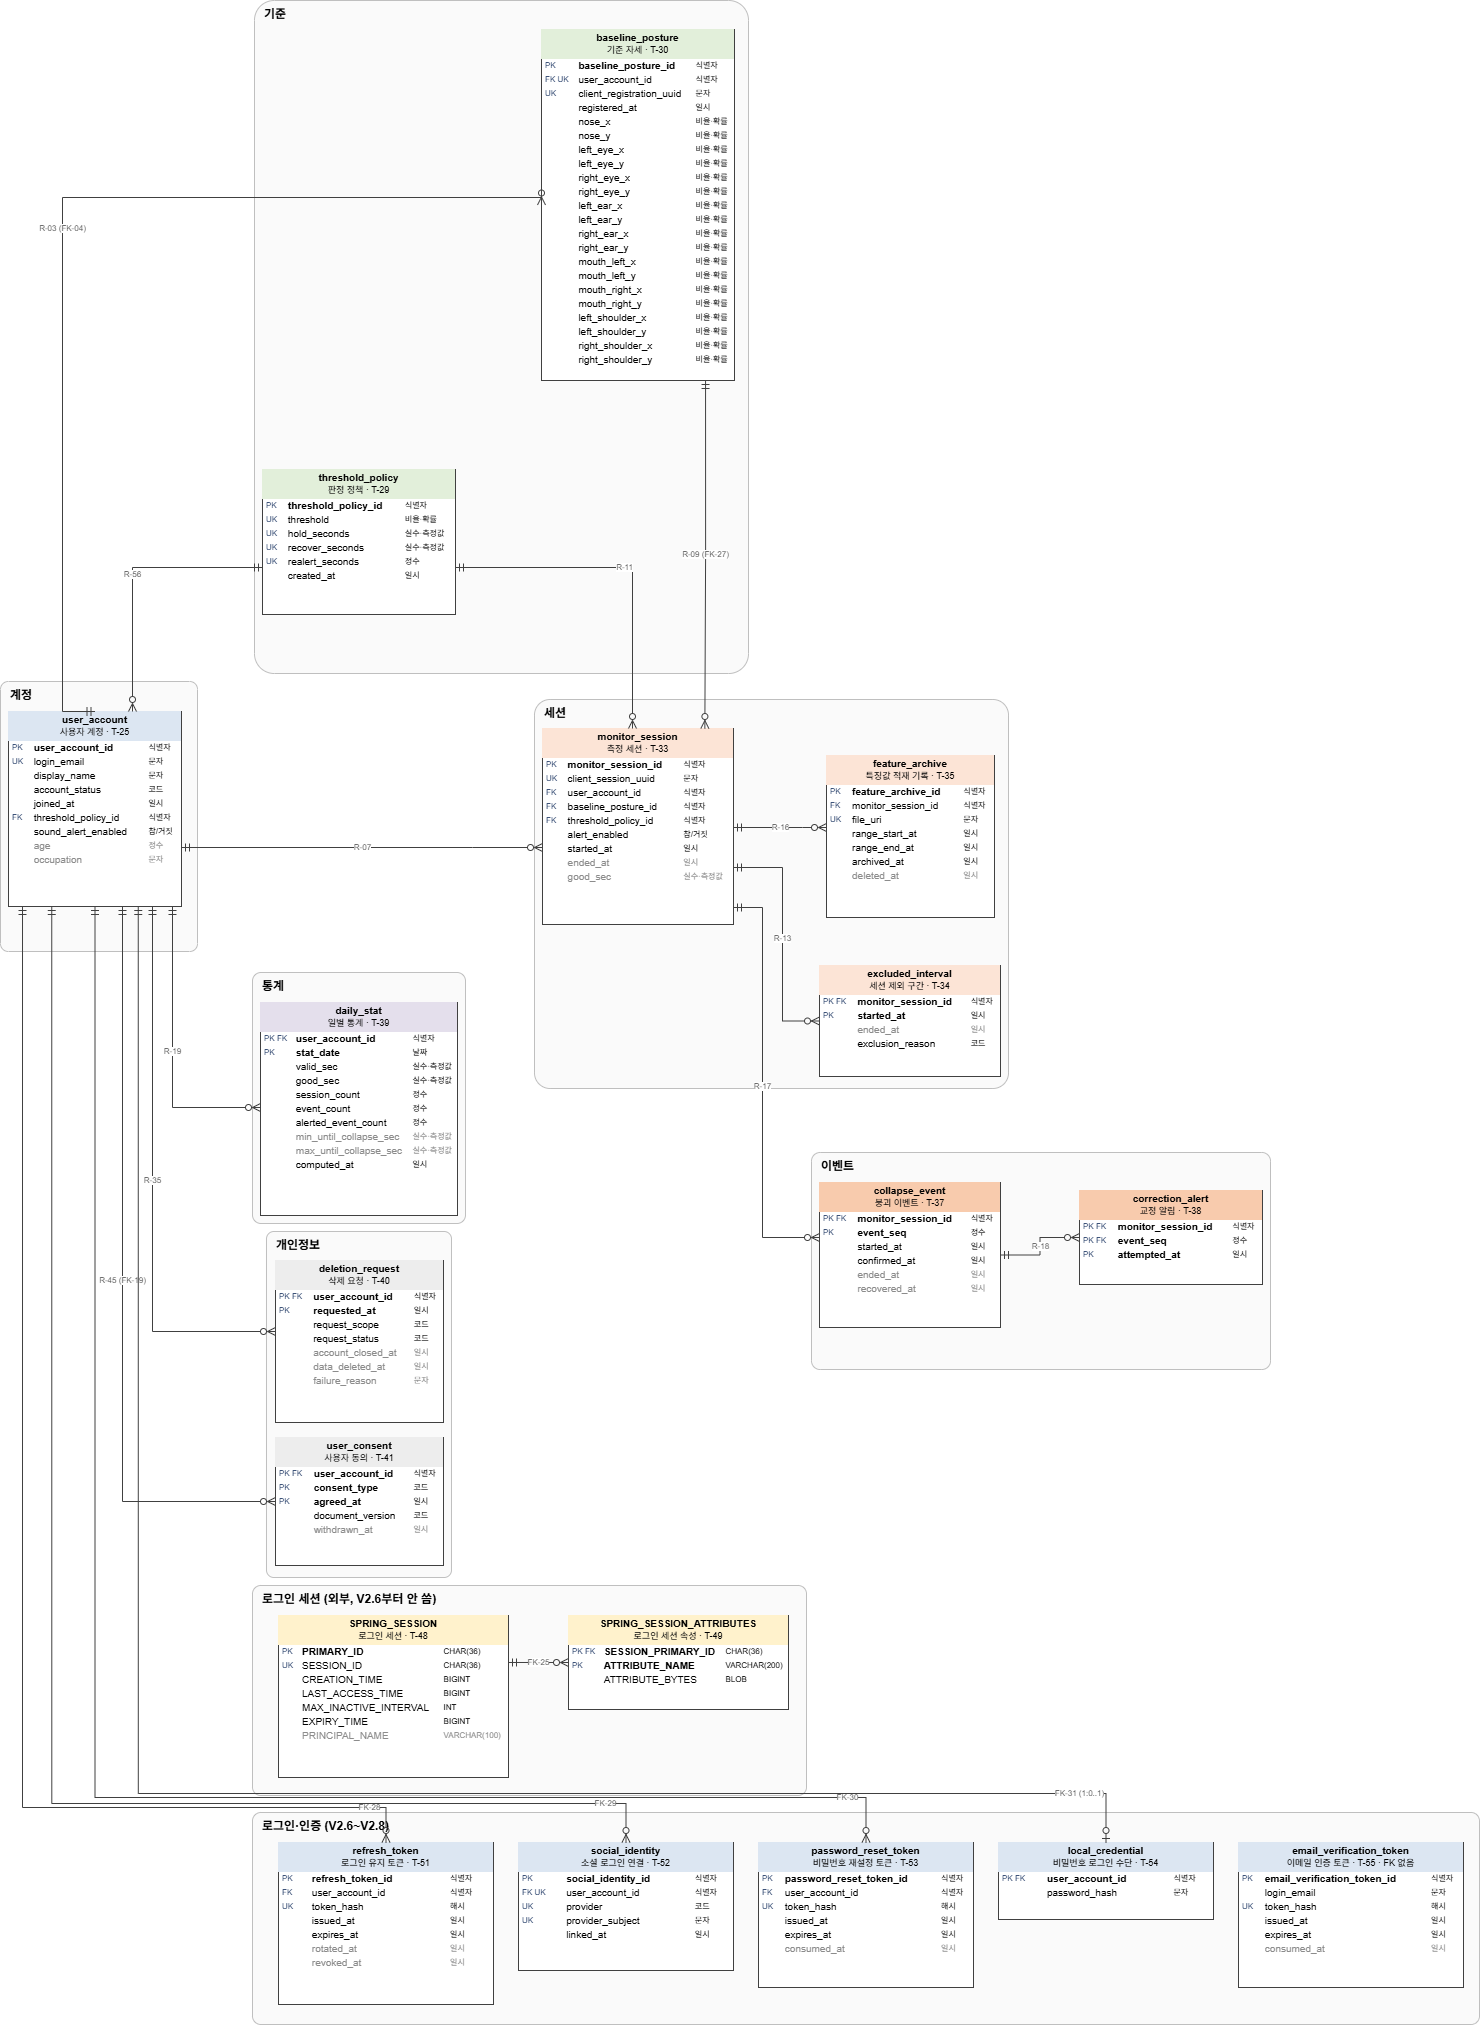
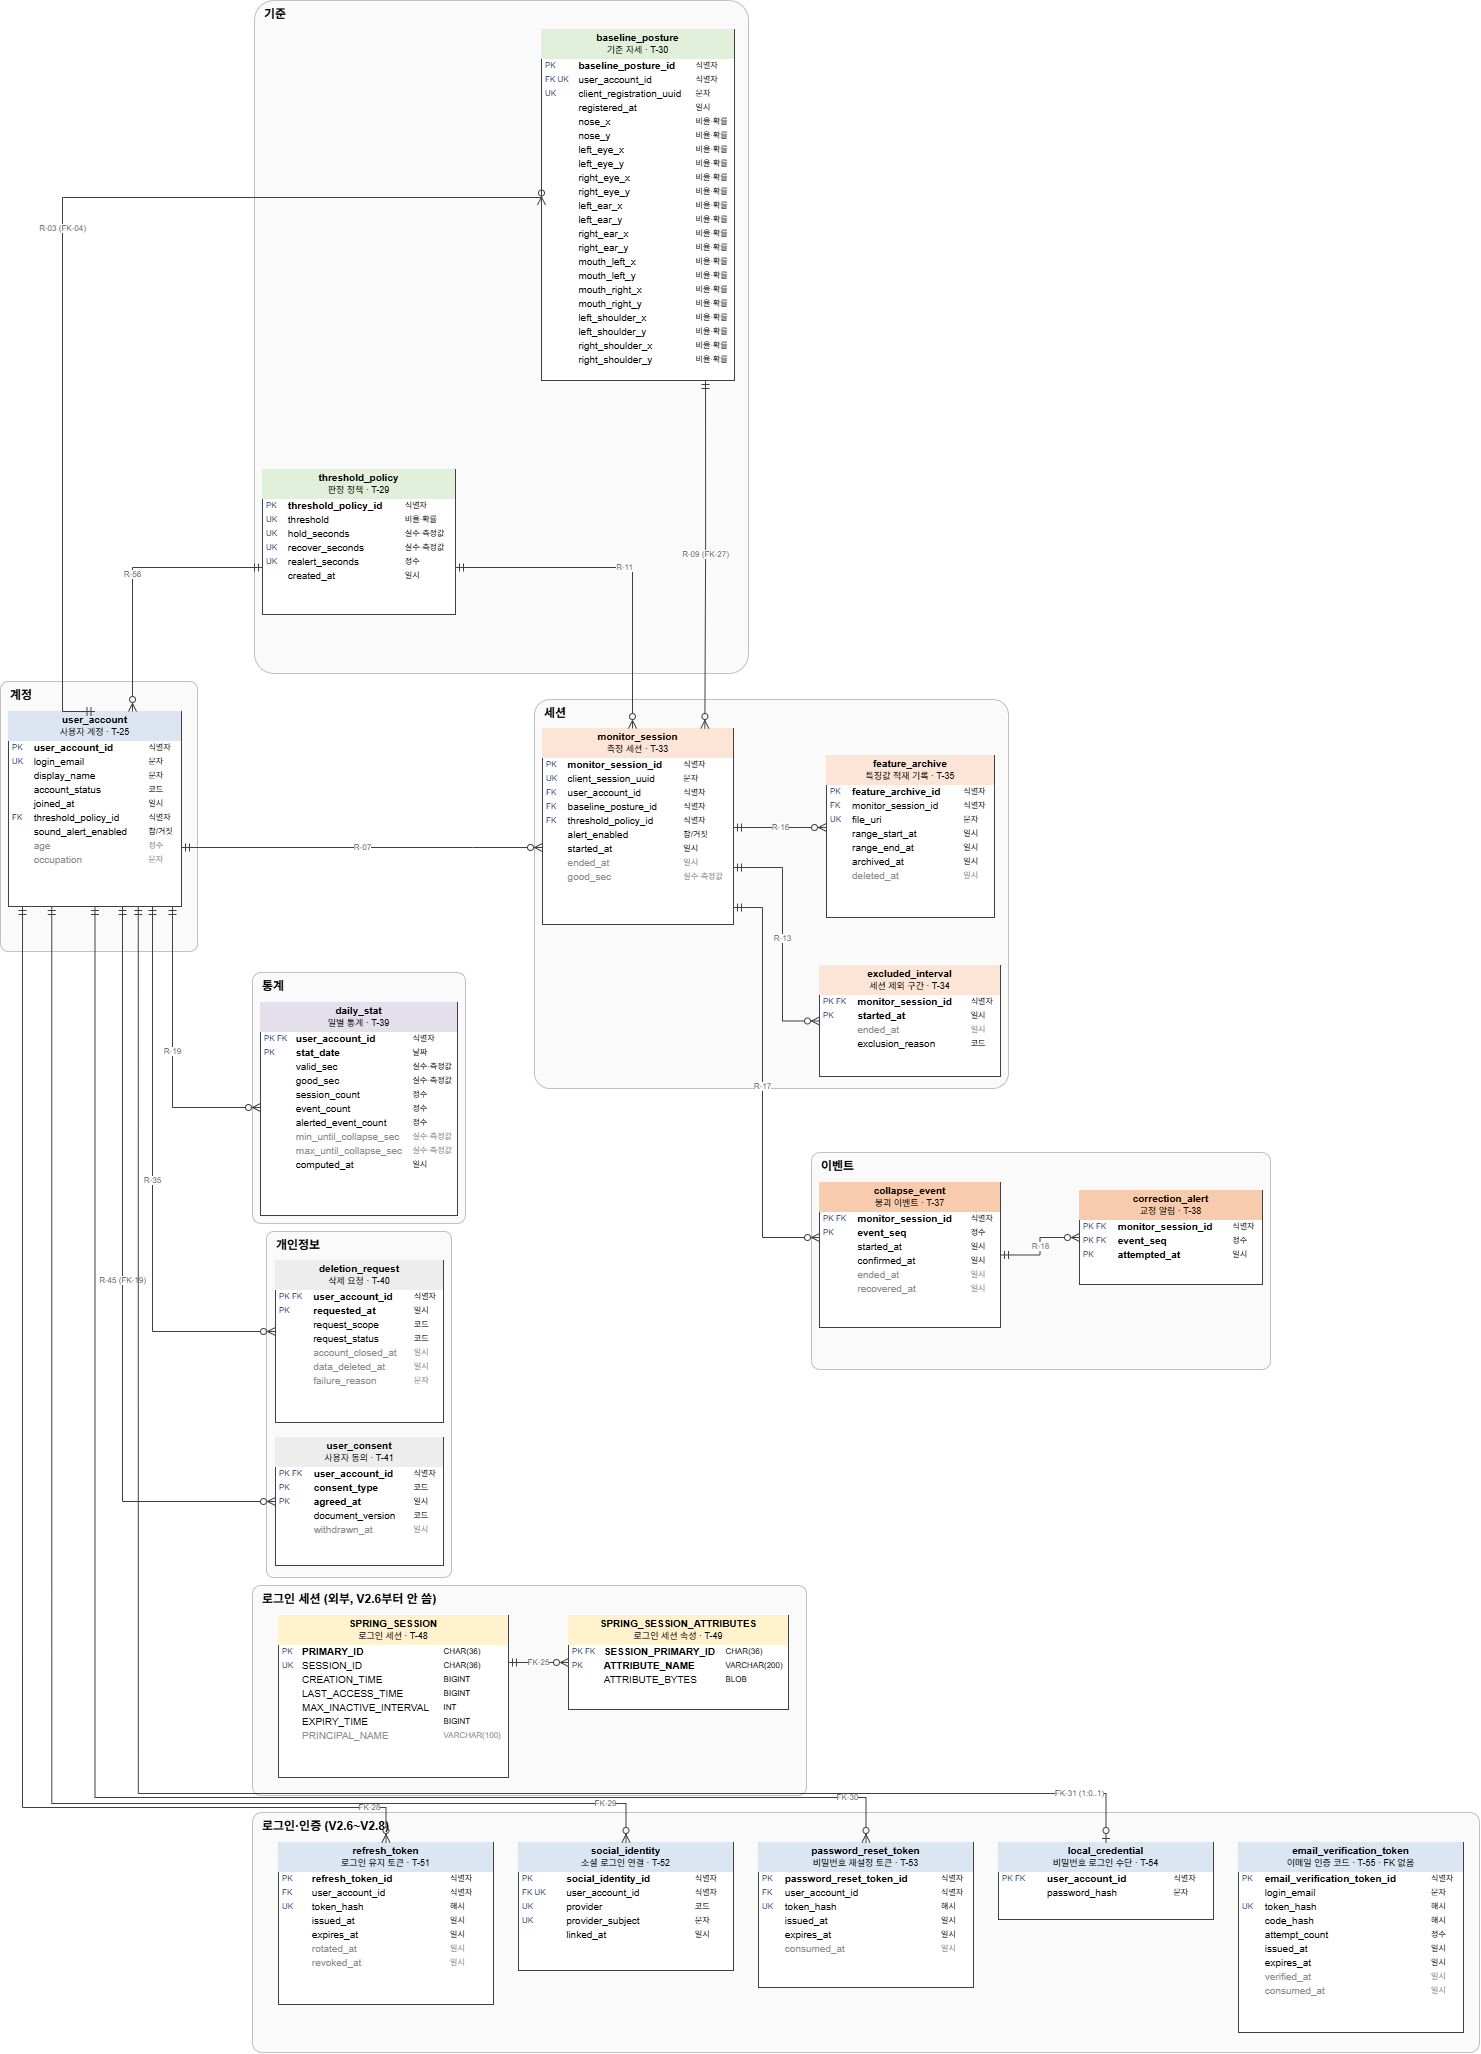
docs(repo): ERD V2.8 개념·논리 PNG를 코드 방식 019로 다시 내보냄
- email_verification_token을 019 수정(11/23)에 맞춤: 칼럼 9개
  (code_hash·attempt_count·verified_at 추가)
- 11/23에는 원본 .drawio만 고치고 PNG는 11/17 링크 방식 그대로였음
- 계획 0096: ERD PNG 항목 체크, 남은 것은 실제 메일 도착 확인

diff --git a/docs/plans/active/0096-account-email-link-and-verification.md b/docs/plans/active/0096-account-email-link-and-verification.md
@@ -1,6 +1,6 @@
 # 같은 이메일 계정 연결과 가입 이메일 인증
 
-- 상태: in_progress (DB 단계 저장소 반영 2026-11-17 — migration 018·019, `schema_V2_8.sql`. 운영 적용 전. BE 1단계 구현 2026-11-17(브랜치 `feature/backend-local-credential`), 2026-11-19 `refactor/repo-remove-api-version-paths` 기준 브랜치 `feature/backend-local-credential-on-remove-paths`로 옮김(develop 반영 전). BE 2단계 시작 2026-11-23(브랜치 `feature/repo-email-verification-code-db` — 019 코드 방식, 인증 대기 DB). PR #144(BE 1·2단계 한 PR) 리뷰 반영 2026-11-23, **develop 병합 2026-11-24**(`1f643937`). 운영 DB 018·019 적용 2026-11-24. ADR 0050 고침 2026-11-24. 남은 것: ERD PNG 2장(유진 직접), 실제 메일 도착 확인(진행 중))
+- 상태: in_progress (DB 단계 저장소 반영 2026-11-17 — migration 018·019, `schema_V2_8.sql`. 운영 적용 전. BE 1단계 구현 2026-11-17(브랜치 `feature/backend-local-credential`), 2026-11-19 `refactor/repo-remove-api-version-paths` 기준 브랜치 `feature/backend-local-credential-on-remove-paths`로 옮김(develop 반영 전). BE 2단계 시작 2026-11-23(브랜치 `feature/repo-email-verification-code-db` — 019 코드 방식, 인증 대기 DB). PR #144(BE 1·2단계 한 PR) 리뷰 반영 2026-11-23, **develop 병합 2026-11-24**(`1f643937`). 운영 DB 018·019 적용 2026-11-24. ADR 0050 고침 2026-11-24. ERD PNG 2장 다시 내보냄 2026-11-24. 남은 것: 실제 메일 도착 확인(진행 중))
 - 담당: DB 유진(V2.8 — migration 018·019), BE·FE 미정, DevOps 홍규(환경변수·적용 순서)
 - 시작일: 2026-11-17
 - 관련: [계획 0088](0088-discord-login-and-password-reset.md), [Discord·재설정 인계](../../design/social-login-password-reset-handoff.md), [이메일 인계](../../design/email-account-handoff.md), [계정 계약](../../../contracts/accounts.md), [DB 안내](../../../database/README.md), [ADR 0050](../../decisions/0050-account-email-and-discord-link.md)(같은 이메일 승인 연결·Discord 전용 계정에 비밀번호 붙이지 않음·인증 대기 DB, 2026-11-24 고침)
@@ -131,7 +131,7 @@ ALTER TABLE user_account DROP COLUMN password_hash;
   - [x] 2026-11-23 6자리 코드 유지로 정하고 019를 운영 적용 전에 고침(020 대신, `code_hash`·`attempt_count`·`verified_at`). `schema_V2_8.sql`·ERD 원본·`integrity_check.py`·DB 안내
   - [x] 2026-11-23 `EmailVerificationRepository`·`EmailVerificationService`(조건부 UPDATE, 서비스 잠금 삭제, 가입 소비와 계정 생성 한 트랜잭션, 매일 04:45 정리), `SchemaVerifier`, 단위·MySQL 통합 시험, 계약·인계·개발 상태
   - [x] 리뷰·develop 반영: PR #144(BE 1단계 위에 쌓음) 2026-11-24 develop 병합(`1f643937`)
-  - [ ] ERD PNG 2장 다시 내보내기(11/23에 원본 `.drawio`만 고침 — 유진이 직접)
+  - [x] ERD PNG 2장 다시 내보내기(11/23에 원본 `.drawio`만 고쳤던 것을 2026-11-24 유진이 개념·논리 ERD PNG로 다시 내보냄 — `email_verification_token` 9칼럼)
   - [x] 2026-11-23 「문제와 완료 기준」·「범위」·「표 변경」의 019·「흐름」을 11/18·11/23 결정대로 고쳐 씀
 - [x] FE: 바꿀 것 없음(#127 가입 코드 화면·연결 승인 화면 그대로, 11/23 확인)
 - [x] 계약 `accounts.md`: 경로는 #127 그대로, 인증 대기 저장 위치·가입 실패 때 소비 되돌림 문구(2026-11-23)
